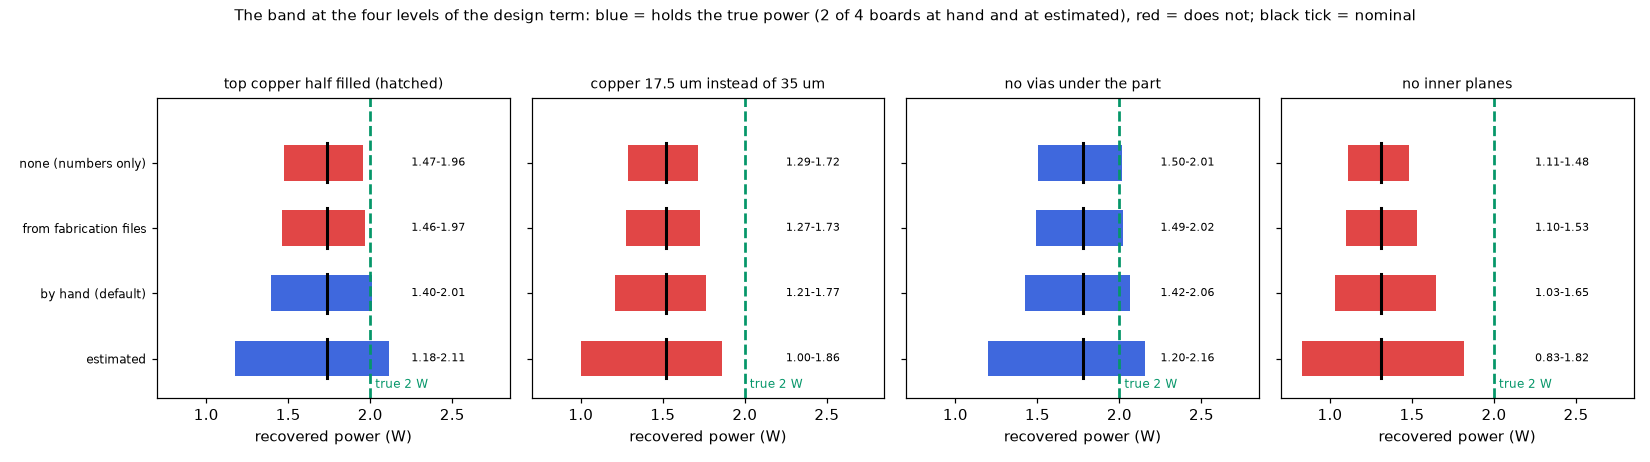
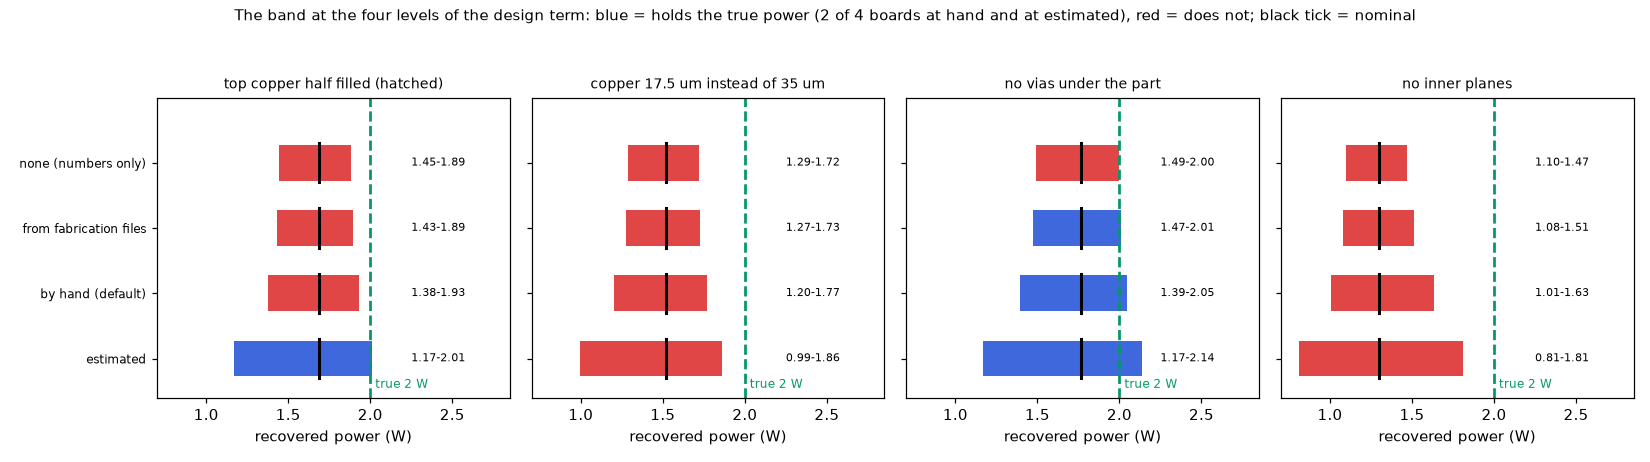
Update the Power Calculator numbers for the program of 2.4.5
study_power_band.py and study_design_term_coverage.py re-run on the current
tree: the drawn boards of the example moved (point via, laminate rule), so
the band tables of docs/calculators.md 1.1b and 1.1c, README 4.7, table 2.2,
DESIGN_COVERAGE and figure 6 are updated. At the default level the design
term now holds the true power on 1 of 4 drawn boards (2 of 4 at Estimated).

Claude-Session: https://claude.ai/code/session_01XgeLDd5tWg6CEJL9TQpCpU

diff --git a/research/power-calculator/scripts/make_figures.py b/research/power-calculator/scripts/make_figures.py
@@ -141,10 +141,10 @@ def fig_calibration():
 
 # Table of README 4.7 as printed by study_design_term_coverage.py (1 mm cells, true power 2 W, power recovered at the top of the package): board -> (nominal, {level: (best, worst)})
 DESIGN_COVERAGE = {
-    "top copper half filled (hatched)": (1.735, {"none": (1.474, 1.956), "cad": (1.462, 1.967), "hand": (1.396, 2.012), "estimated": (1.177, 2.113)}),
-    "copper 17.5 um instead of 35 um": (1.519, {"none": (1.288, 1.715), "cad": (1.275, 1.725), "hand": (1.207, 1.766), "estimated": (0.999, 1.858)}),
-    "no vias under the part": (1.780, {"none": (1.505, 2.014), "cad": (1.492, 2.024), "hand": (1.422, 2.064), "estimated": (1.196, 2.157)}),
-    "no inner planes": (1.312, {"none": (1.109, 1.484), "cad": (1.096, 1.531), "hand": (1.029, 1.646), "estimated": (0.831, 1.818)}),
+    "top copper half filled (hatched)": (1.686, {"none": (1.445, 1.885), "cad": (1.434, 1.894), "hand": (1.375, 1.931), "estimated": (1.171, 2.012)}),
+    "copper 17.5 um instead of 35 um": (1.521, {"none": (1.289, 1.718), "cad": (1.273, 1.728), "hand": (1.203, 1.768), "estimated": (0.995, 1.859)}),
+    "no vias under the part": (1.766, {"none": (1.493, 1.998), "cad": (1.473, 2.007), "hand": (1.392, 2.047), "estimated": (1.166, 2.140)}),
+    "no inner planes": (1.297, {"none": (1.098, 1.467), "cad": (1.081, 1.515), "hand": (1.008, 1.634), "estimated": (0.813, 1.809)}),
 }
 TRUE_POWER = 2.0
 

diff --git a/research/power-calculator/README.md b/research/power-calculator/README.md
@@ -27,7 +27,7 @@ Status: **implemented** in the program (see the program's `docs/versions.md` and
 * On the datasheet's own board the calculator is within 2 to 3 %: CSD17308Q3 46.8 against 46 K/W (−1.7 %), a JEDEC 2s2p exposed-pad QFN with 9 vias 31.6 against 32.5 K/W (+3 %, via array assumed), at 0.5 mm cells. With finer cells the two rows move to −2.3 % and +1.3 % (section 4.5). Part of the CSD17308Q3 agreement is a model error: on that board the FVM's board resistance is 2.4 % below an independent 3D solver (the program's 3D solid is within 0.1 %), so a converged 3D answer would be about 4 % off the datasheet (section 4.6). The JEDEC row depends on how the bottom layer of the test board is read: a 70 µm plane there instead of traces gives +23 % (section 4.5).
 * **The copper dominates the error** when the drawn board is not the real one (−11 to −45 %); heat transfer, θ, ψJT and a 3 K reading error each move the result 5 to 9 %.
 * A datasheet shortcut `P = (T_top − T_amb)/(θJA − ψJT)` is the worst of the routes (+50 / −25 % for θJA 30 % off) and is not offered.
-* A known-power reference removes the copper error but only fits parts whose dissipation can be fixed (not implemented); a two-point fit is badly conditioned (±1 K moves the copper multiplier from 1.05 to 3.9); an uncertainty band (best, nominal, worst) is implemented; with the board-description (design) term of the program (default level *Drawn by hand*) it is wider than the numbers-only band quoted in sections 4.4 and 4.7, and it brings 2 of the 4 badly drawn boards inside (section 4.7).
+* A known-power reference removes the copper error but only fits parts whose dissipation can be fixed (not implemented); a two-point fit is badly conditioned (±1 K moves the copper multiplier from 1.05 to 3.9); an uncertainty band (best, nominal, worst) is implemented; with the board-description (design) term of the program (default level *Drawn by hand*) it is wider than the numbers-only band quoted in sections 4.4 and 4.7, and it brings 1 of the 4 badly drawn boards inside (2 at the level *Estimated*; section 4.7).
 
 ## 3. Folder layout
 
@@ -81,18 +81,18 @@ Part of 2 W, θ = 6 K/W, ψJT = 2 K/W on the example board; the top reading is m
 | What differs between the drawn board and the real one | recovered power (W) | error |
 | :-- | --: | --: |
 | nothing | 2.000 | 0.0 % |
-| top copper half filled (hatched) | 1.735 | −13.2 % |
-| copper 17.5 µm instead of 35 µm | 1.519 | −24.1 % |
-| no inner planes | 1.312 | −34.4 % |
-| no top copper pad | 1.100 | −45.0 % |
-| no vias under the part | 1.780 | −11.0 % |
-| heat transfer coefficients +30 % / −30 % | 2.126 / 1.818 | +6.3 % / −9.1 % |
-| θ +20 % / −20 % | 1.873 / 2.145 | −6.3 % / +7.3 % |
-| ψJT 1 / 3 K/W instead of 2 | 1.893 / 2.119 | −5.3 % / +6.0 % |
-| measured top temperature 3 K low / high | 1.831 / 2.169 | −8.5 % / +8.5 % |
-| datasheet shortcut with θJA 30 % below / above the board's (19.7 K/W) | 3.002 / 1.499 | +50.1 % / −25.0 % |
+| top copper half filled (hatched) | 1.686 | −15.7 % |
+| copper 17.5 µm instead of 35 µm | 1.521 | −23.9 % |
+| no inner planes | 1.297 | −35.1 % |
+| no top copper pad | 1.059 | −47.1 % |
+| no vias under the part | 1.766 | −11.7 % |
+| heat transfer coefficients +30 % / −30 % | 2.127 / 1.816 | +6.4 % / −9.2 % |
+| θ +20 % / −20 % | 1.872 / 2.146 | −6.4 % / +7.3 % |
+| ψJT 1 / 3 K/W instead of 2 | 1.892 / 2.120 | −5.4 % / +6.0 % |
+| measured top temperature 3 K low / high | 1.830 / 2.170 | −8.5 % / +8.5 % |
+| datasheet shortcut with θJA 30 % below / above the board's (19.7 K/W) | 3.003 / 1.499 | +50.2 % / −25.0 % |
 
-**Reading it.** On the datasheet's own board the calculator is within 2 to 3 % (section 4.1); the large deltas appear only when the drawn board is not the real one. The copper dominates (11 to 45 % for a wrong copper, planes or vias), the heat transfer, θ, ψJT and a 3 K measurement error each move the answer by 5 to 9 %.
+**Reading it.** On the datasheet's own board the calculator is within 2 to 3 % (section 4.1); the large deltas appear only when the drawn board is not the real one. The copper dominates (12 to 47 % for a wrong copper, planes or vias), the heat transfer, θ, ψJT and a 3 K measurement error each move the answer by 5 to 9 %.
 
 ### 4.3 Self-consistency (`tests/test_inverse.py`)
 
@@ -159,26 +159,26 @@ With the program's FR-4 (0.3 through, 0.9 in-plane) the FVM gives 47.2 K/W and t
 
 ### 4.7 The band of the program and whether it holds the true power (`scripts/study_power_band.py`, in the review)
 
-The example table of `docs/calculators.md` 1.1b (U1 at 2 W, θ 6, ψJT 2, default uncertainties: copper 25 %, heat transfer 30 %, θ 20 %, ψJT 30 %, reading 1 K) is printed by this script (`study_power_band.py none`, the band without the design term) and reproduced to the last digit: board ring 2.00 / 1.62 / 2.31 W, top of the package 2.00 / 1.69 / 2.27 W (nominal / best / worst). The numbers of this subsection up to the next paragraph are **without** the design term (level `none`); re-run on the current program (with the edge, 3D limit and inner-copper changes) level `none` prints exactly the same digits as quoted here, for both parts. Computed on a drawn board that differs from the real one (top of the package):
+The example table of `docs/calculators.md` 1.1b (U1 at 2 W, θ 6, ψJT 2, default uncertainties: copper 25 %, heat transfer 30 %, θ 20 %, ψJT 30 %, reading 1 K) is printed by this script (`study_power_band.py none`, the band without the design term) and reproduced to the last digit except the best case at the top of the package: board ring 2.00 / 1.62 / 2.31 W, top of the package 2.00 / 1.68 / 2.27 W (nominal / best / worst; 1.69 before the reproduction pass of 2.4.5). The numbers of this subsection up to the next paragraph are **without** the design term (level `none`); re-run on the program of 2.4.5 (point via, laminate rule) level `none` moves the drawn boards of part 2 by 0.002 to 0.05 W (the point via and the laminate rule change the boards; table below) and the top best case by 0.01 W. Computed on a drawn board that differs from the real one (top of the package):
 
 | Drawn board | nominal (W) | best (W) | worst (W) | true 2 W inside |
 | :-- | --: | --: | --: | :-- |
-| top copper half filled (hatched) | 1.735 | 1.474 | 1.956 | no |
-| copper 17.5 µm instead of 35 µm | 1.519 | 1.288 | 1.715 | no |
-| no vias under the part | 1.780 | 1.505 | 2.014 | yes |
-| no inner planes | 1.312 | 1.109 | 1.484 | no |
+| top copper half filled (hatched) | 1.686 | 1.445 | 1.885 | no |
+| copper 17.5 µm instead of 35 µm | 1.521 | 1.289 | 1.718 | no |
+| no vias under the part | 1.766 | 1.493 | 1.998 | no |
+| no inner planes | 1.297 | 1.098 | 1.467 | no |
 
-The band covers the uncertainty of numbers (copper thickness ±25 %, h ±30 %, θ, ψJT, reading); it does not cover a drawing error (a plane or a pad that is missing, copper half the real thickness): in three of four cases the true power is above the worst case. `docs/calculators.md` 1.1b says "use the worst case for margins"; that holds only when the board is drawn right.
+The band covers the uncertainty of numbers (copper thickness ±25 %, h ±30 %, θ, ψJT, reading); it does not cover a drawing error (a plane or a pad that is missing, copper half the real thickness): in four of four cases on the program of 2.4.5 (three of four before) the true power is above the worst case. `docs/calculators.md` 1.1b says "use the worst case for margins"; that holds only when the board is drawn right.
 
 **With the design term** (`inverse.power_band`, `docs/calculators.md` 1.1c; `study_design_term_coverage.py`, 1 mm cells, true 2 W, power recovered at the top of the package; best to worst case in W):
 
 | Drawn board | nominal | none (numbers only) | cad (fabrication files) | hand (program default) | estimated |
 | :-- | --: | :-- | :-- | :-- | :-- |
-| top copper half filled (hatched) | 1.735 | 1.474–1.956 out | 1.462–1.967 out | 1.396–2.012 **in** (0.012 W from the edge) | 1.177–2.113 **in** |
-| copper 17.5 µm instead of 35 µm | 1.519 | 1.288–1.715 out | 1.275–1.725 out | 1.207–1.766 out | 0.999–1.858 out |
-| no vias under the part | 1.780 | 1.505–2.014 in | 1.492–2.024 in | 1.422–2.064 in | 1.196–2.157 in |
-| no inner planes | 1.312 | 1.109–1.484 out | 1.096–1.531 out | 1.029–1.646 out | 0.831–1.818 out |
-| **cases inside** | | 1 of 4 | 1 of 4 | 2 of 4 | 2 of 4 |
+| top copper half filled (hatched) | 1.686 | 1.445–1.885 out | 1.434–1.894 out | 1.375–1.931 out | 1.171–2.012 **in** (0.012 W from the edge) |
+| copper 17.5 µm instead of 35 µm | 1.521 | 1.289–1.718 out | 1.273–1.728 out | 1.203–1.768 out | 0.995–1.859 out |
+| no vias under the part | 1.766 | 1.493–1.998 out (0.002 W short) | 1.473–2.007 in | 1.392–2.047 in | 1.166–2.140 in |
+| no inner planes | 1.297 | 1.098–1.467 out | 1.081–1.515 out | 1.008–1.634 out | 0.813–1.809 out |
+| **cases inside** | | 0 of 4 | 1 of 4 | 1 of 4 | 2 of 4 |
 
 ![The band at the four levels of the design term](figures/fig_06_design_term_coverage.png)
 
@@ -189,10 +189,10 @@ The example band (drawn board = real board, nominal / best / worst in W) at ever
 | Measured at | none | cad | hand (default) | estimated |
 | :-- | :-- | :-- | :-- | :-- |
 | board ring | 2.00 / 1.62 / 2.31 | 2.00 / 1.61 / 2.32 | 2.00 / 1.56 / 2.34 | 2.00 / 1.37 / 2.41 |
-| top of the package | 2.00 / 1.69 / 2.27 | 2.00 / 1.67 / 2.28 | 2.00 / 1.60 / 2.31 | 2.00 / 1.36 / 2.40 |
+| top of the package | 2.00 / 1.68 / 2.27 | 2.00 / 1.67 / 2.28 | 2.00 / 1.58 / 2.31 | 2.00 / 1.34 / 2.40 |
 
-* The default level changes every band quoted before: the ring band 1.62–2.31 W becomes 1.56–2.34 W and the top band 1.69–2.27 W becomes 1.60–2.31 W (the values printed by the program review are reproduced: ring 2.00 / 1.56 / 2.34, top 2.00 / 1.60 / 2.31). The best case falls by 0.06 to 0.09 W, the worst case rises by 0.03 to 0.04 W; the nominal never moves. At `hand` the design terms at the top add: coverage 1.90–2.00, copper weight 1.79–2.16, inner planes 1.94–2.00, vias 1.97–2.02 W (this equals `docs/calculators.md` 1.1b).
-* The design term brings the hatched pad inside the band at `hand` (by 0.012 W) and `estimated`, not at `cad`; the missing vias are inside at every level (the band without the term was already wide enough, and no via is drawn, so the vias term is not run); the half-weight copper and the missing planes stay outside even at `estimated` (worst case 1.86 and 1.82 W against 2 W). The coverage table of `docs/calculators.md` 1.1c is reproduced to the last digit in the columns none, hand and estimated; the column cad is new here.
+* The default level changes every band quoted before: the ring band 1.62–2.31 W becomes 1.56–2.34 W and the top band 1.68–2.27 W becomes 1.58–2.31 W (program of 2.4.5; the earlier review had top 1.60–2.31 W). The best case falls by 0.06 to 0.10 W, the worst case rises by 0.03 to 0.04 W; the nominal never moves. At `hand` the design terms at the top add: coverage 1.84–2.00, copper weight 1.79–2.16, inner planes 1.94–2.00, vias 1.97–2.02 W (this equals `docs/calculators.md` 1.1b).
+* The design term brings the hatched pad inside the band only at `estimated` (by 0.012 W; at `hand` the worst case is 1.931 W, it was inside before the point via and the laminate rule changed the board); the missing vias are outside by 0.002 W without the term and inside from `cad` (no via is drawn, so the vias term is not run); the half-weight copper and the missing planes stay outside even at `estimated` (worst case 1.86 and 1.82 W against 2 W). The coverage table of `docs/calculators.md` 1.1c is reproduced to the last digit before the reproduction pass of 2.4.5; the table above is the new print (every nominal moved by 0.002 to 0.05 W: the board of the study has vias, partial copper and bare laminate, so the point via and the laminate rule move it).
 * The two out-of-band cases are errors of +100 % of copper or a full plane, larger than the amplitudes of the levels (50 % at `estimated`, assumed, not fitted); the result is a statement about those amplitudes, not a measurement of how often designers draw this wrong.
 
 ## 5. Limits

diff --git a/docs/calculators.md b/docs/calculators.md
@@ -50,15 +50,15 @@ Example (the board of table 2.2, U1 at 2 W, θ 6, ψJT 2, 1 mm resolution), numb
 | Measured at | nominal | best case | worst case | what each source moves (W) |
 | :-- | --: | --: | --: | :-- |
 | board ring | 2.00 W | 1.62 W | 2.31 W | copper 1.81–2.15, heat transfer 1.68–2.25, reading 1.89–2.11 |
-| top of the package | 2.00 W | 1.69 W | 2.27 W | copper 1.79–2.16, heat transfer 1.82–2.13, θ 1.87–2.15, ψJT 1.93–2.07, reading 1.94–2.06 |
+| top of the package | 2.00 W | 1.68 W | 2.27 W | copper 1.79–2.16, heat transfer 1.82–2.13, θ 1.87–2.15, ψJT 1.93–2.07, reading 1.94–2.06 |
 
-With the default board description (*Drawn by hand from the layout*, section 1.1c) the same example gives **ring 2.00 / 1.56 / 2.34 W** and **top 2.00 / 1.60 / 2.31 W** (nominal / best / worst); the design terms add, for the top: coverage 1.90–2.00, copper weight 1.79–2.16, inner planes 1.94–2.00, vias 1.97–2.02 W. The worst case rises by 0.03 to 0.05 W, the best case falls by 0.06 to 0.08 W. (On this board every zone is solid, so coverage and planes have no upward side.) The nominal never changes.
+With the default board description (*Drawn by hand from the layout*, section 1.1c) the same example gives **ring 2.00 / 1.56 / 2.34 W** and **top 2.00 / 1.58 / 2.31 W** (nominal / best / worst); the design terms add, for the top: coverage 1.84–2.00, copper weight 1.79–2.16, inner planes 1.94–2.00, vias 1.97–2.02 W. The worst case rises by 0.03 to 0.04 W, the best case falls by 0.06 to 0.10 W. (On this board every zone is solid, so coverage and planes have no upward side.) The nominal never changes.
 
 **Same board or a variant?** The power is fitted to the drawn board. Simulating *that same board* with it reproduces the measurement (the copper's error cancels); simulating *variants* (more copper, a heatsink) keeps the power, which is physically right, but the board's error does not cancel, so use the worst case for margins (and a board description level that matches how the board was drawn: without the design uncertainty the worst case holds only when the board is drawn right).
 
 ### 1.1c Design uncertainty: how well the drawing matches the board
 
-The terms of section 1.1b are uncertain *numbers* on a board that is assumed drawn right. The review of the calculator showed that this band does **not** cover a wrongly drawn board: in three of four drawing errors the true 2 W was above the worst case. The **Board description** list of the calculator adds four more one-at-a-time sources, moved to both ends like the others and combined with them by the root of the sum of squares (`inverse.power_band`, `design_*` entries of the `calculator` section of `defaults.json`, editable in *Preferences → Power Calculator*):
+The terms of section 1.1b are uncertain *numbers* on a board that is assumed drawn right. The review of the calculator showed that this band does **not** cover a wrongly drawn board: in three of four drawing errors the true 2 W was above the worst case (in all four on the program of 2.4.5, the missing vias falling 0.002 W short). The **Board description** list of the calculator adds four more one-at-a-time sources, moved to both ends like the others and combined with them by the root of the sum of squares (`inverse.power_band`, `design_*` entries of the `calculator` section of `defaults.json`, editable in *Preferences → Power Calculator*):
 
 ![Power Calculator: the Board description list and the terms of the result (example board, hand-drawn level, 2 mm cell)](images/calculator_design.png)
 
@@ -77,12 +77,12 @@ The terms of section 1.1b are uncertain *numbers* on a board that is assumed dra
 
 | Drawn board (real board: the example, 2 W) | nominal | numbers only (None) | **Drawn by hand** | **Estimated** |
 | :-- | --: | :-- | :-- | :-- |
-| top copper half filled (hatched) | 1.735 | 1.474–1.956, **out** | 1.396–2.012, **in** (2 W is 0.012 W from the edge) | 1.177–2.113, **in** |
-| copper 17.5 µm instead of 35 µm | 1.519 | 1.288–1.715, **out** | 1.207–1.766, **out** | 0.999–1.858, **out** |
-| no vias under the part (no via term: nothing drawn to move) | 1.780 | 1.505–2.014, in | 1.422–2.064, in | 1.196–2.157, in |
-| no inner planes (only the top copper drawn: the bottom plane is missing too) | 1.312 | 1.109–1.484, **out** | 1.029–1.646, **out** | 0.831–1.818, **out** |
+| top copper half filled (hatched) | 1.686 | 1.445–1.885, **out** | 1.375–1.931, **out** | 1.171–2.012, **in** (2 W is 0.012 W from the edge) |
+| copper 17.5 µm instead of 35 µm | 1.521 | 1.289–1.718, **out** | 1.203–1.768, **out** | 0.995–1.859, **out** |
+| no vias under the part (no via term: nothing drawn to move) | 1.766 | 1.493–1.998, **out** (0.002 W short) | 1.392–2.047, in | 1.166–2.140, in |
+| no inner planes (only the top copper drawn: the bottom plane is missing too) | 1.297 | 1.098–1.467, **out** | 1.008–1.634, **out** | 0.813–1.809, **out** |
 
-So the design term brings **2 of the 4** drawing errors inside the band at the level *Drawn by hand* (hatched, no vias; the hatched pour only just), and also 2 of 4 at *Estimated*; it does **not** cover a copper weight half the real one nor a missing set of inner planes, even at the widest level (worst case 1.86 and 1.82 W against a true 2 W). The amplitudes were not enlarged to cover them: the missing plane can only be added at a fill `a` (50 %), and the copper weight at +50 %, while the real errors were +100 % of copper and a full plane. The cases are the boards of the band study (section 4, part 2), run with `inverse.power_band(..., uncertainty={"design_level": ...})`; the table is measured with the coverage study of section 4 (several minutes, too long for a test): its columns none, hand and estimated reproduce the table to the last digit, and it also prints the column *Drawn from the real fabrication files* (hatched 1.462–1.967 out, half-weight copper 1.275–1.725 out, no vias 1.492–2.024 in, no planes 1.096–1.531 out); the column *None* also reproduces part 2 of the band study (`none`). At the level *Drawn from the real fabrication files* the band is only a little wider than *None* (example at the ring: 1.607–2.317 W against 1.616–2.311 W).
+So the design term brings **1 of the 4** drawing errors inside the band at the level *Drawn by hand* (no vias) and 2 of 4 at *Estimated* (no vias, and the hatched pour only just); it does **not** cover a copper weight half the real one nor a missing set of inner planes, even at the widest level (worst case 1.86 and 1.82 W against a true 2 W). The amplitudes were not enlarged to cover them: the missing plane can only be added at a fill `a` (50 %), and the copper weight at +50 %, while the real errors were +100 % of copper and a full plane. The cases are the boards of the band study (section 4, part 2), run with `inverse.power_band(..., uncertainty={"design_level": ...})`; the table is measured with the coverage study of section 4 (several minutes, too long for a test): its columns none, hand and estimated reproduce the table to the last digit, and it also prints the column *Drawn from the real fabrication files* (hatched 1.462–1.967 out, half-weight copper 1.275–1.725 out, no vias 1.492–2.024 in, no planes 1.096–1.531 out); the column *None* also reproduces part 2 of the band study (`none`). At the level *Drawn from the real fabrication files* the band is only a little wider than *None* (example at the ring: 1.607–2.317 W against 1.616–2.311 W).
 
 The design term is an honest widening, not a guarantee: a drawing error larger than the amplitude of the chosen level is not covered, and the "up" moves reach only as far as their amplitude (a plane that is missing can be added at the fill `a`, not at 100 %). Choose *Estimated* when the board is a guess. Errors of kinds not listed (a missing heatsink or metal block, a wrong stack-up, a different air flow, a different `h` model, a part near the board edge) are not covered either. Limits of the four terms: the vias term moves the plating, so it adds no via where none is drawn and barely moves a via filled with copper (its core already conducts like copper); the copper weight term is the same change as the copper number term, added as a second independent cause (fabrication tolerance and a wrong weight), so at the level *Drawn by hand* the two together are about ±35 % of copper (root sum of squares of 25 and 25); an amplitude of 100 % or more (Preferences accepts it) makes a thickness or a plating zero or negative, which is not a meaningful board.
 
@@ -122,18 +122,18 @@ Part of 2 W, θ = 6 K/W, ψJT = 2 K/W on the example board; the top reading is m
 | What differs between the drawn board and the real one | recovered power (W) | error |
 | :-- | --: | --: |
 | nothing | 2.000 | 0.0 % |
-| top copper half filled (hatched) | 1.735 | −13.2 % |
-| copper 17.5 µm instead of 35 µm | 1.519 | −24.1 % |
-| no inner planes | 1.312 | −34.4 % |
-| no top copper pad | 1.100 | −45.0 % |
-| no vias under the part | 1.780 | −11.0 % |
-| heat transfer coefficients +30 % / −30 % | 2.126 / 1.818 | +6.3 % / −9.1 % |
-| θ +20 % / −20 % | 1.873 / 2.145 | −6.3 % / +7.3 % |
-| ψJT 1 / 3 K/W instead of 2 | 1.893 / 2.119 | −5.3 % / +6.0 % |
-| measured top temperature 3 K low / high | 1.831 / 2.169 | −8.5 % / +8.5 % |
-| datasheet shortcut with θJA 30 % below / above the board's (19.7 K/W) | 3.002 / 1.499 | +50.1 % / −25.0 % |
+| top copper half filled (hatched) | 1.686 | −15.7 % |
+| copper 17.5 µm instead of 35 µm | 1.521 | −23.9 % |
+| no inner planes | 1.297 | −35.1 % |
+| no top copper pad | 1.059 | −47.1 % |
+| no vias under the part | 1.766 | −11.7 % |
+| heat transfer coefficients +30 % / −30 % | 2.127 / 1.816 | +6.4 % / −9.2 % |
+| θ +20 % / −20 % | 1.872 / 2.146 | −6.4 % / +7.3 % |
+| ψJT 1 / 3 K/W instead of 2 | 1.892 / 2.120 | −5.4 % / +6.0 % |
+| measured top temperature 3 K low / high | 1.830 / 2.170 | −8.5 % / +8.5 % |
+| datasheet shortcut with θJA 30 % below / above the board's (19.6 K/W) | 3.003 / 1.499 | +50.2 % / −25.0 % |
 
-**Reading it.** On the datasheet's own board the calculator is within about 3 % (table 2.1); the large deltas appear only when the drawn board is not the real one. The copper dominates (11 to 45 % for a wrong copper, planes or vias), the heat transfer, θ, ψJT and a 3 K measurement error each move the answer by 5 to 9 %.
+**Reading it.** On the datasheet's own board the calculator is within about 3 % (table 2.1); the large deltas appear only when the drawn board is not the real one. The copper dominates (12 to 47 % for a wrong copper, planes or vias), the heat transfer, θ, ψJT and a 3 K measurement error each move the answer by 5 to 9 %.
 
 ### 2.3 Self-consistency (`tests/test_inverse.py`)
 
